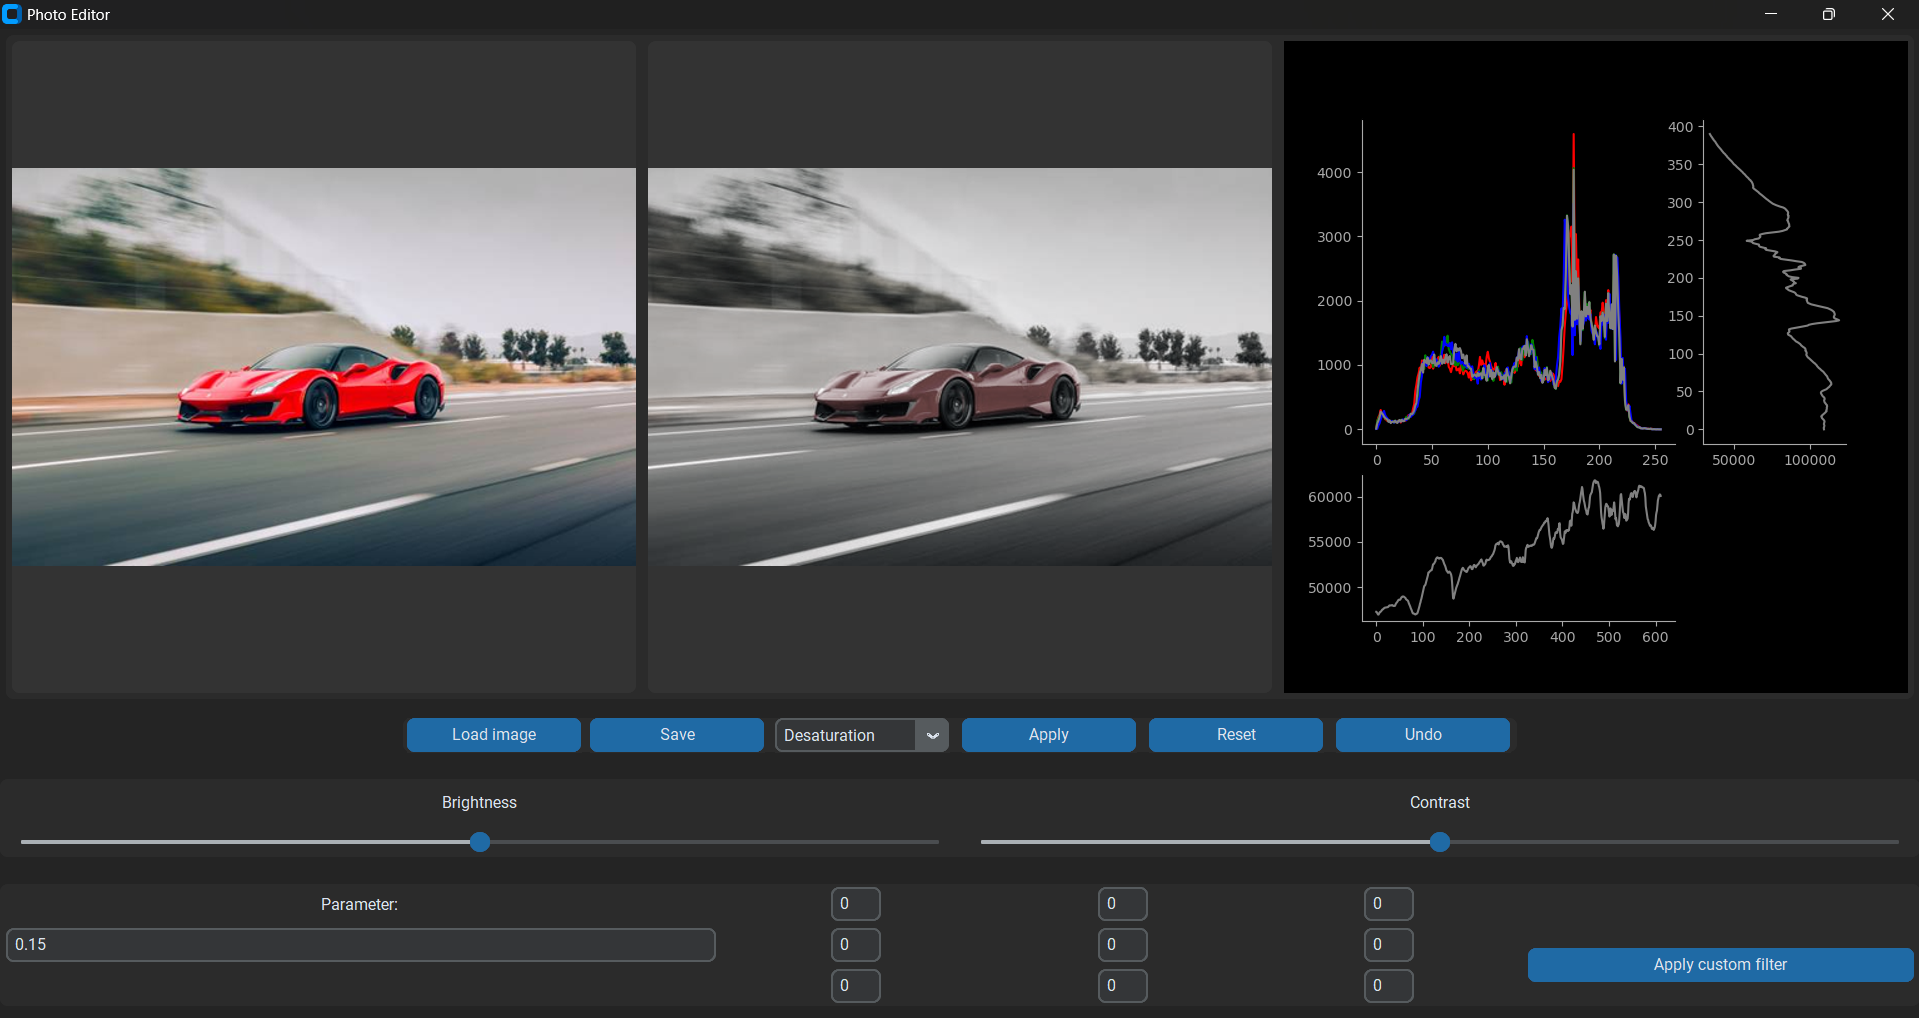
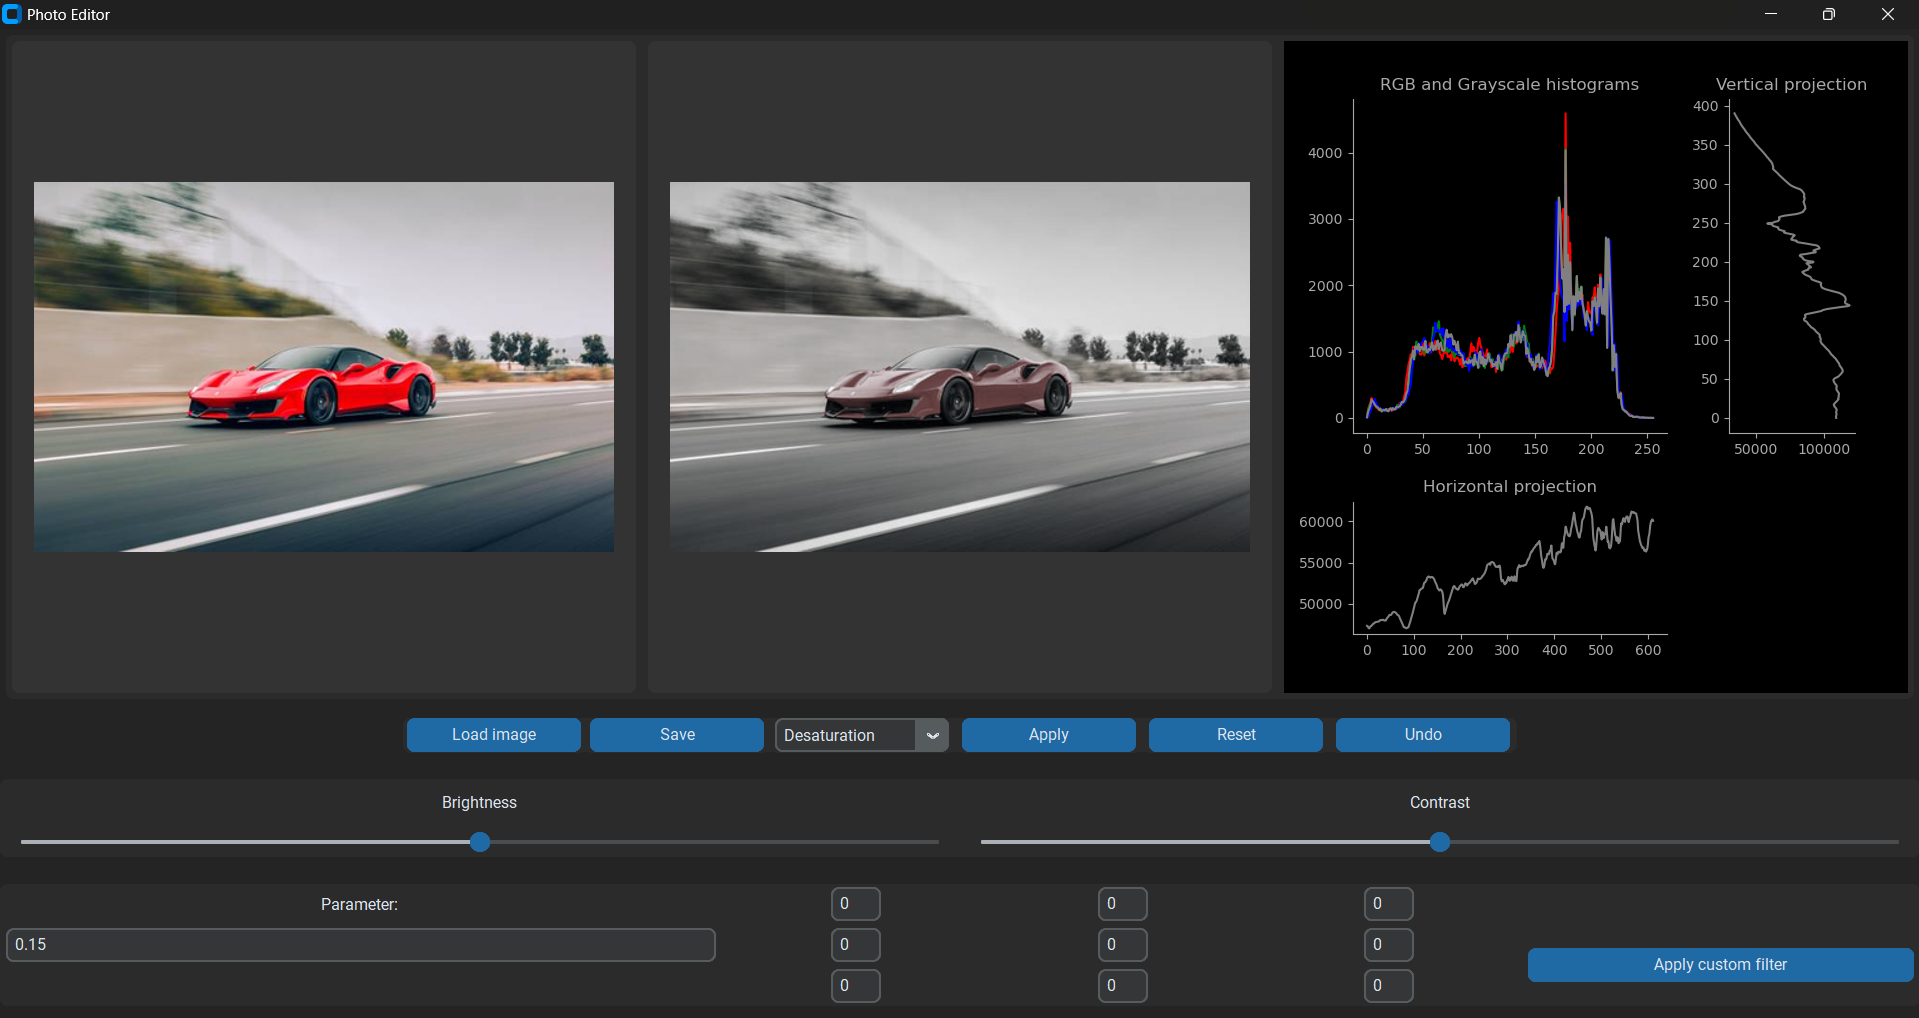
quick fix

diff --git a/PhotoEditorApp.py b/PhotoEditorApp.py
@@ -11,7 +11,7 @@ class PhotoEditorApp:
         
         self.root = root
         self.root.title("Photo Editor")
-        self.root.geometry("10000x10000")
+        self.root.geometry("850x600")
 
         ctk.set_appearance_mode("dark")  
         ctk.set_default_color_theme("blue")
@@ -145,12 +145,8 @@ class PhotoEditorApp:
 
         self.apply_kernel_button = ctk.CTkButton(self.customization_frame, text="Apply custom filter", command=self.apply_custom_filter)
         self.apply_kernel_button.grid(row=1, column=4, rowspan=3, padx=5, pady=10, sticky="ew")
-<<<<<<< HEAD
         
         
-=======
-    
->>>>>>> 2c1ff323d3e9df9142b05199937517dc60c8d638
     # LOADING AND SAVING IMAGES
 
     def load_image(self):
@@ -182,7 +178,6 @@ class PhotoEditorApp:
             self.display_image(self.image, self.left_label)
         if self.processed_image:
             self.display_image(self.processed_image, self.middle_label)
-<<<<<<< HEAD
 
 
     def display_image(self, img, label):
@@ -198,30 +193,14 @@ class PhotoEditorApp:
         else:
             new_width = frame_width
             new_height = int(frame_width / ratio)
-=======
-            
-    def display_image(self, img, label):
-        
-        frame_width = 400
-        img_ratio = img.width / img.height
-
-        new_width = frame_width
-        new_height = int(frame_width / img_ratio)
->>>>>>> 2c1ff323d3e9df9142b05199937517dc60c8d638
 
         resized_img = img.resize((new_width, new_height), Image.LANCZOS)
         ctk_img = ctk.CTkImage(light_image=resized_img, dark_image=resized_img, size=(new_width, new_height))
-<<<<<<< HEAD
 
         label.configure(image=ctk_img, text="")
         label.image = ctk_img
         label.pack(expand=True, anchor="center")
 
-=======
-        label.configure(image=ctk_img, text="")
-        label.image = ctk_img
-        label.pack(expand = True, anchor = "center")
->>>>>>> 2c1ff323d3e9df9142b05199937517dc60c8d638
 
     # RESET LABELS - CLEARING FILTERS
 
@@ -655,12 +634,7 @@ class PhotoEditorApp:
         if not any(any(value != 0 for value in row) for row in kernel):
             self.show_error_message("Please enter at least one field with a value different from zero!")
         else:
-<<<<<<< HEAD
             pixels = np.array(self.processed_image.copy())
-=======
-            self.processed_image_history.append(self.processed_image.copy())
-            pixels = np.array(self.processed_image)
->>>>>>> 2c1ff323d3e9df9142b05199937517dc60c8d638
             kernel = np.array(kernel)
             modified = self.convolve(pixels, kernel)
             self.processed_image = Image.fromarray(modified)
